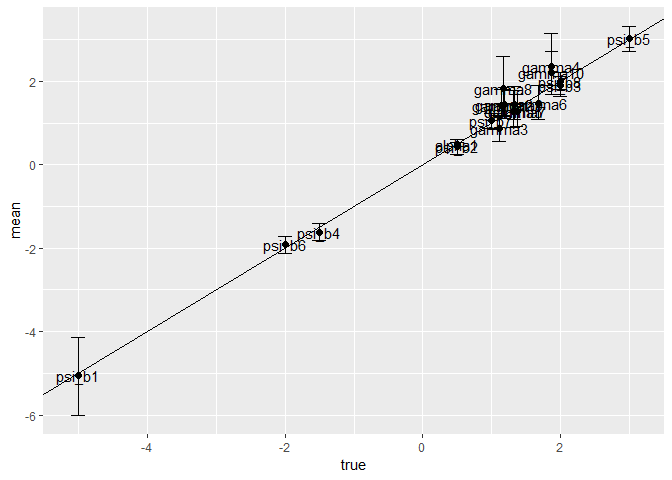
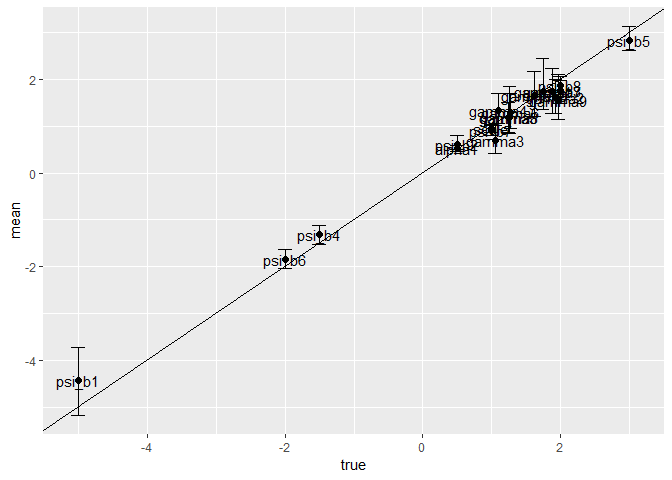
update readme

diff --git a/README.md b/README.md
@@ -97,21 +97,19 @@ mdcev_est <- FitMDCEV(psi_formula = ~ b1 + b2 + b3 + b4 + b5 + b6 + b7 + b8-1,
 #> Checking data...
 #> Data is good
 #> Using MLE to estimate MDCEV
-#> Chain 1: Initial log joint probability = -17583.3
+#> Chain 1: Initial log joint probability = -17144.7
 #> Chain 1:     Iter      log prob        ||dx||      ||grad||       alpha      alpha0  # evals  Notes 
-#> Chain 1:       19      -14521.4      0.136714        65.618           1           1       25   
+#> Chain 1:       19      -14148.5      0.664993       279.006           1           1       25   
 #> Chain 1:     Iter      log prob        ||dx||      ||grad||       alpha      alpha0  # evals  Notes 
-#> Chain 1:       39        -14448      0.142581          37.5           1           1       47   
+#> Chain 1:       39      -14080.6     0.0979007       35.6496           1           1       47   
 #> Chain 1:     Iter      log prob        ||dx||      ||grad||       alpha      alpha0  # evals  Notes 
-#> Chain 1:       59        -14440     0.0781948       38.7772      0.5104           1       69   
+#> Chain 1:       59      -14072.3     0.0364687       21.5479      0.2996           1       75   
 #> Chain 1:     Iter      log prob        ||dx||      ||grad||       alpha      alpha0  # evals  Notes 
-#> Chain 1:       79      -14438.4     0.0653246       14.4014           1           1       91   
+#> Chain 1:       79      -14071.7    0.00679215       2.50178      0.2447           1       98   
 #> Chain 1:     Iter      log prob        ||dx||      ||grad||       alpha      alpha0  # evals  Notes 
-#> Chain 1:       99      -14438.1     0.0040228       1.51202      0.8957      0.8957      114   
+#> Chain 1:       99      -14071.6    0.00268428      0.585792           1           1      121   
 #> Chain 1:     Iter      log prob        ||dx||      ||grad||       alpha      alpha0  # evals  Notes 
-#> Chain 1:      119      -14438.1    0.00338588       1.02323           1           1      135   
-#> Chain 1:     Iter      log prob        ||dx||      ||grad||       alpha      alpha0  # evals  Notes 
-#> Chain 1:      131      -14438.1   0.000646157      0.096187           1           1      148   
+#> Chain 1:      111      -14071.6   0.000172627      0.423097      0.5706      0.5706      134   
 #> Chain 1: Optimization terminated normally: 
 #> Chain 1:   Convergence detected: relative gradient magnitude is below tolerance
 ```
@@ -120,23 +118,23 @@ Summarize results
 
 ``` r
 SummaryMDCEV(mdcev_est)
-#> Model run using rmdcev for R, version 0.7.0 
+#> Model run using rmdcev for R, version 0.8.0 
 #> Estimation method                : MLE
 #> Model type                       : hybrid specification
 #> Number of classes                : 1
 #> Number of individuals            : 1000
 #> Number of non-numeraire alts     : 10
 #> Estimated parameters             : 20
-#> LL                               : -14438.1
-#> AIC                              : 28916.2
-#> BIC                              : 29014.35
+#> LL                               : -14071.61
+#> AIC                              : 28183.21
+#> BIC                              : 28281.37
 #> Standard errors calculated using : 50 MVN draws
 #> Exit of MLE                      : successful convergence
-#> Time taken (hh:mm:ss)            : 00:00:1.7
+#> Time taken (hh:mm:ss)            : 00:00:1.58
 #> 
 #> Average consumption of non-numeraire alternatives:
 #>     1     2     3     4     5     6     7     8     9    10 
-#> 30.98 15.01  9.68 38.77  6.81 11.71  8.65  7.29 32.65 23.89 
+#> 25.78 29.63  6.75 31.63 23.53 14.60 13.83  6.79 15.70 22.92 
 #> 
 #> 
 #> Psi specification:
@@ -144,26 +142,26 @@ SummaryMDCEV(mdcev_est)
 #> b1 + b2 + b3 + b4 + b5 + b6 + b7 + b8 - 1
 #> Parameter estimates --------------------------------  
 #>         Estimate Std.err z.stat
-#> psi_b1    -5.042   0.464 -10.87
-#> psi_b2     0.448   0.103   4.33
-#> psi_b3     1.903   0.142  13.42
-#> psi_b4    -1.624   0.108 -14.98
-#> psi_b5     3.034   0.150  20.17
-#> psi_b6    -1.907   0.119 -16.07
-#> psi_b7     1.066   0.104  10.27
-#> psi_b8     1.993   0.109  18.23
-#> gamma1     1.423   0.180   7.90
-#> gamma2     1.454   0.207   7.01
-#> gamma3     0.864   0.180   4.80
-#> gamma4     2.355   0.305   7.72
-#> gamma5     1.283   0.289   4.44
-#> gamma6     1.464   0.225   6.50
-#> gamma7     1.286   0.228   5.64
-#> gamma8     1.839   0.393   4.68
-#> gamma9     1.456   0.215   6.76
-#> gamma10    2.216   0.293   7.57
-#> alpha1     0.490   0.021  23.30
-#> scale      1.003   0.042  23.71
+#> psi_b1    -4.431   0.448  -9.88
+#> psi_b2     0.602   0.091   6.62
+#> psi_b3     1.769   0.138  12.78
+#> psi_b4    -1.321   0.107 -12.35
+#> psi_b5     2.838   0.138  20.58
+#> psi_b6    -1.845   0.100 -18.45
+#> psi_b7     0.914   0.068  13.35
+#> psi_b8     1.872   0.092  20.28
+#> gamma1     1.753   0.296   5.93
+#> gamma2     1.610   0.218   7.38
+#> gamma3     0.701   0.161   4.36
+#> gamma4     1.340   0.180   7.46
+#> gamma5     1.187   0.174   6.80
+#> gamma6     1.304   0.235   5.55
+#> gamma7     1.743   0.269   6.48
+#> gamma8     1.185   0.252   4.71
+#> gamma9     1.560   0.257   6.06
+#> gamma10    1.654   0.246   6.73
+#> alpha1     0.532   0.023  22.71
+#> scale      0.945   0.039  24.48
 #> Note: Alpha parameter is equal for all goods.
 ```
 
@@ -186,26 +184,26 @@ coefs <- mdcev_est$est_pars %>%
 #> # A tibble: 20 x 7
 #>    parms     mean     sd  zstat  cl_lo  cl_hi  true
 #>    <chr>    <dbl>  <dbl>  <dbl>  <dbl>  <dbl> <dbl>
-#>  1 alpha1   0.490 0.0210  23.3   0.451  0.529  0.5 
-#>  2 gamma1   1.42  0.180    7.90  1.17   1.82   1.14
-#>  3 gamma10  2.22  0.293    7.57  1.70   2.73   1.87
-#>  4 gamma2   1.45  0.207    7.01  1.11   1.80   1.18
-#>  5 gamma3   0.864 0.180    4.80  0.565  1.19   1.11
-#>  6 gamma4   2.36  0.305    7.72  1.92   3.15   1.87
-#>  7 gamma5   1.28  0.289    4.44  0.890  1.79   1.32
-#>  8 gamma6   1.46  0.225    6.50  1.10   1.90   1.68
-#>  9 gamma7   1.29  0.228    5.64  0.913  1.68   1.37
-#> 10 gamma8   1.84  0.393    4.68  1.18   2.61   1.17
-#> 11 gamma9   1.46  0.215    6.76  1.08   1.87   1.33
-#> 12 psi_b1  -5.04  0.464  -10.9  -6.00  -4.13  -5   
-#> 13 psi_b2   0.448 0.103    4.33  0.244  0.606  0.5 
-#> 14 psi_b3   1.90  0.142   13.4   1.63   2.13   2   
-#> 15 psi_b4  -1.62  0.108  -15.0  -1.82  -1.42  -1.5 
-#> 16 psi_b5   3.03  0.150   20.2   2.73   3.32   3   
-#> 17 psi_b6  -1.91  0.119  -16.1  -2.12  -1.72  -2   
-#> 18 psi_b7   1.07  0.104   10.3   0.877  1.24   1   
-#> 19 psi_b8   1.99  0.109   18.2   1.82   2.23   2   
-#> 20 scale    1.00  0.0423  23.7   0.924  1.07  NA
+#>  1 alpha1   0.532 0.0234  22.7   0.493  0.579  0.5 
+#>  2 gamma1   1.75  0.296    5.93  1.36   2.45   1.74
+#>  3 gamma10  1.65  0.246    6.73  1.21   2.16   1.62
+#>  4 gamma2   1.61  0.218    7.38  1.27   2.00   1.93
+#>  5 gamma3   0.701 0.161    4.36  0.420  1.02   1.06
+#>  6 gamma4   1.34  0.180    7.46  1.07   1.69   1.10
+#>  7 gamma5   1.19  0.174    6.80  0.872  1.51   1.24
+#>  8 gamma6   1.30  0.235    5.55  0.956  1.70   1.28
+#>  9 gamma7   1.74  0.269    6.48  1.27   2.24   1.89
+#> 10 gamma8   1.18  0.252    4.71  0.846  1.85   1.26
+#> 11 gamma9   1.56  0.257    6.06  1.14   2.10   1.97
+#> 12 psi_b1  -4.43  0.448   -9.88 -5.17  -3.73  -5   
+#> 13 psi_b2   0.602 0.0909   6.62  0.460  0.799  0.5 
+#> 14 psi_b3   1.77  0.138   12.8   1.48   1.98   2   
+#> 15 psi_b4  -1.32  0.107  -12.3  -1.52  -1.11  -1.5 
+#> 16 psi_b5   2.84  0.138   20.6   2.63   3.13   3   
+#> 17 psi_b6  -1.85  0.1000 -18.5  -2.03  -1.63  -2   
+#> 18 psi_b7   0.914 0.0685  13.3   0.808  1.04   1   
+#> 19 psi_b8   1.87  0.0923  20.3   1.71   2.07   2   
+#> 20 scale    0.945 0.0386  24.5   0.874  1.01   1
 ```
 
 Compare outputs using a figure
@@ -243,7 +241,7 @@ wtp <- SimulateMDCEV(df_sim$df_indiv, df_common = df_sim$df_common, sim_options 
 #> Compiling simulation code
 #> Simulating welfare...
 #> 
-#>  3.00e+05 simulations finished in 0.06 minutes. ( 85470 per second)
+#>  3.00e+05 simulations finished in 0.06 minutes. ( 86957 per second)
 SummaryWelfare(wtp)
 #> # A tibble: 2 x 5
 #>   policy   Mean Std.Dev `ci_lo2.5%` `ci_hi97.5%`
